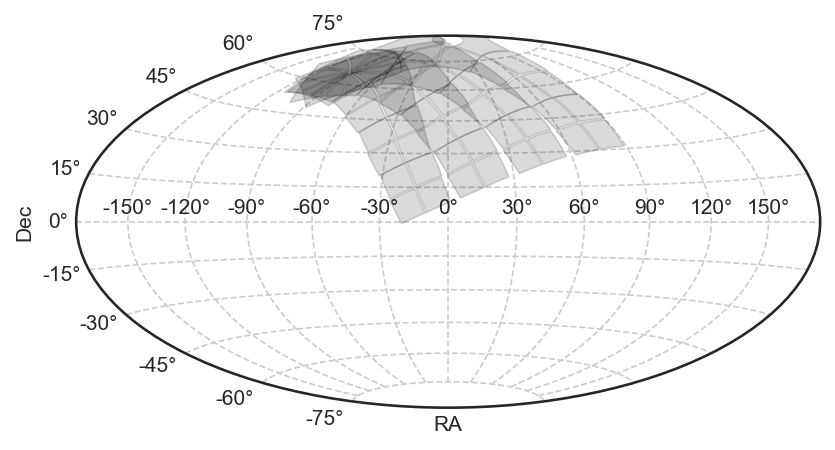
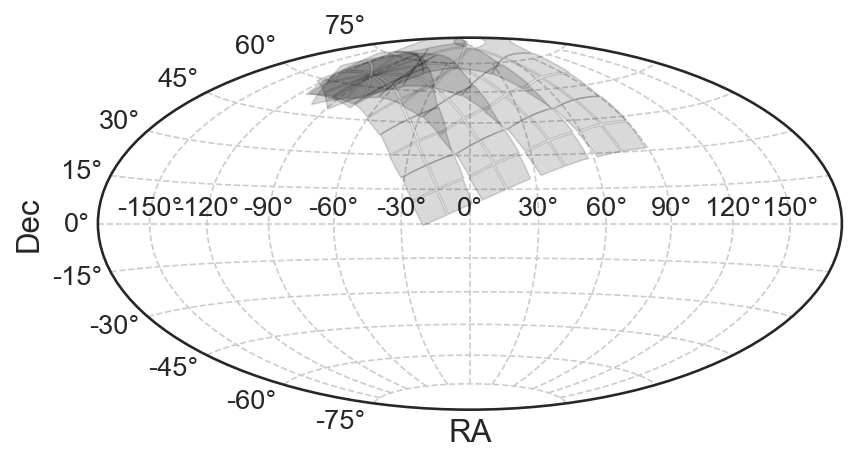
added completeness

diff --git a/tests/test_tessfov.py b/tests/test_tessfov.py
@@ -3,6 +3,20 @@ import os
 import matplotlib.pyplot as plt
 import numpy as np
 
+plt.style.use('seaborn-white')
+
+SMALL_SIZE = 13
+MEDIUM_SIZE = 15
+BIGGER_SIZE = 30
+
+plt.rc('font', size=SMALL_SIZE)          # controls default text sizes
+plt.rc('axes', titlesize=SMALL_SIZE)     # fontsize of the axes title
+plt.rc('axes', labelsize=MEDIUM_SIZE)    # fontsize of the x and y labels
+plt.rc('xtick', labelsize=SMALL_SIZE)    # fontsize of the tick labels
+plt.rc('ytick', labelsize=SMALL_SIZE)    # fontsize of the tick labels
+plt.rc('legend', fontsize=SMALL_SIZE)    # legend fontsize
+plt.rc('figure', titlesize=BIGGER_SIZE)  # fontsize of the figure title
+
 from tessfov import (
     PACKAGEDIR,
     __version__,
@@ -10,6 +24,7 @@ from tessfov import (
     add_tessfov_shade,
     add_tessfov_text,
     get_edges,
+    get_completeness
 )
 
 
@@ -47,14 +62,14 @@ def test_plots():
             )
             ax.set(xlabel="RA", ylabel="Dec")
             ax.grid(True, ls="--")
-            fig.savefig(f"{dir}/docs/projection.png", bbox_inches="tight")
+            fig.savefig(f"{dir}/docs/projection.png", bbox_inches="tight", dpi=150)
             plt.close(fig)
 
             fig = plt.figure(dpi=150)
             ax = plt.subplot(111)
             ax.set(xlabel="RA", ylabel="Dec", xlim=(0, 360), ylim=(-90, 90))
             add_tessfov_outline(ax, sector=np.arange(1, 14, 3))
-            fig.savefig(f"{dir}/docs/regular.png", bbox_inches="tight")
+            fig.savefig(f"{dir}/docs/regular.png", bbox_inches="tight", dpi=150)
             plt.close(fig)
 
             fig = plt.figure(dpi=150)
@@ -62,5 +77,40 @@ def test_plots():
             ax.set(xlabel="RA", ylabel="Dec", xlim=(330, 360), ylim=(-40, 0))
             add_tessfov_outline(ax, sector=2, camera=1, ccd=4, color="grey", ls="--")
             add_tessfov_text(ax, sector=2, camera=1, ccd=4, color="grey", fontsize=12)
-            fig.savefig(f"{dir}/docs/zoom.png", bbox_inches="tight")
+            fig.savefig(f"{dir}/docs/zoom.png", bbox_inches="tight", dpi=150)
             plt.close(fig)
+
+def test_completeness():
+    ra, dec, onsilicon = get_completeness([1, 2])
+    assert np.sum(onsilicon, axis=0).max() == 2
+    ra, dec, onsilicon = get_completeness([1, 2], npoints=10)
+    if not is_action():
+        dir = "/".join(PACKAGEDIR.split("/")[:-2])
+        sectors = np.arange(1, 84)
+        ras, decs, onsilicon = get_completeness(sectors, 100000)
+        #plt.scatter(ras, decs, c=onsilicon.any(axis=0))
+        cmap = plt.get_cmap('viridis')
+        cmap.set_bad(color='grey')
+
+        color = onsilicon.sum(axis=0).astype(float)
+        color[color == 0] = np.nan
+        fig, ax = plt.subplots(figsize=(10, 6))
+        im = plt.scatter(ras, decs, c=color, cmap=cmap, s=1)
+        ax.set(xlabel='RA [degrees]', ylabel='Dec [degrees]', title=f'Number of TESS Visits as of Sector {sectors[-1]}')
+        cbar = plt.colorbar(im, ax=ax)
+        cbar.set_label("Number of Visits by TESS")
+        fig.savefig(f"{dir}/docs/completeness1.png", bbox_inches="tight", dpi=150)
+        plt.close(fig)
+
+        fig, ax = plt.subplots()
+        plt.hist(onsilicon.sum(axis=0), np.arange(0, onsilicon.sum(axis=0).max()), density=True, color='k')
+        ax.set(xlabel="Number of TESS Observations", ylabel="Density", title="Number of TESS Observations across Sky")       
+        fig.savefig(f"{dir}/docs/completeness2.png", bbox_inches="tight", dpi=150)
+        plt.close(fig)
+
+        completeness = np.asarray([onsilicon[:idx].any(axis=0).sum()/onsilicon.shape[1] for idx in sectors])
+        fig, ax = plt.subplots()
+        ax.plot(sectors, completeness * 100, c='k', lw=2)
+        ax.set(xlabel='TESS Observing Sector', ylabel='Toatl Sky Coverage [%]', title='TESS Total Sky Observed at Least Once', ylim=(0, 100))
+        fig.savefig(f"{dir}/docs/completeness3.png", bbox_inches="tight", dpi=150)
+        plt.close(fig)

diff --git a/src/tessfov/tessfov.py b/src/tessfov/tessfov.py
@@ -4,7 +4,7 @@ import astropy.units as u
 import matplotlib.pyplot as plt
 import numpy as np
 import pandas as pd
-from astropy.coordinates import Angle
+from astropy.coordinates import Angle, cartesian_to_spherical
 from numpy import typing as npt
 from tess_stars2px import Levine_FPG
 
@@ -308,3 +308,82 @@ def add_tessfov_shade(
             np.vstack([patch[0], patch[1]]).T, color=color, alpha=0.15, lw=lw, **kwargs
         )
         ax.add_patch(poly)
+
+
+def fibonacci_sphere(samples: int =20000) -> List[npt.NDArray[float]]:
+    """Roughly evenly spaces points on a sphere
+    
+    Parameters:
+    ----------
+    samples: int
+        Number of points to put on a sphere
+
+    Returns:
+    -------
+    vec: np.ndarray shape 3 x len(samples)
+        The cartesian vector of points on a sphere
+    """
+    points = []
+    phi = np.pi * (3. - np.sqrt(5.))  # golden angle in radians
+    for i in range(samples):
+        y = 1 - (i / float(samples - 1)) * 2  # y goes from 1 to -1
+        radius = np.sqrt(1 - y * y)  # radius at y
+        theta = phi * i  # golden angle increment
+        x = np.cos(theta) * radius
+        z = np.sin(theta) * radius
+        points.append((x, y, z))
+    return np.asarray(points)
+
+def get_completeness(sectors: Union[List[int], npt.NDArray]=[1], npoints: int=100000)-> List[npt.NDArray[float]]:
+    """Returns sky completeness of input sectors for NASA TESS.
+    
+    Will evenly distribute points in RA and Dec and then calculate which points are observed
+    in a given list of sectors. Returns an array of booleans for each input sector with
+    True/False stating whether each point is observed. 
+
+    Parameters:
+    ----------
+    sectors: list or np.ndarray
+        The sectors at which to calculate the completeness
+    npoints: int
+        Number of points to put on a sphere
+
+    Returns:
+    -------
+    ra: np.ndarray
+        The evenly spaced RA locations, shape 1 x npoints
+    dec: np.ndarray
+        The evenly spaced Dec locations, shape 1 x npoints
+    onsilicon: np.ndarray
+        Array of booleans, with shape nsectors x npoints.
+        True where any point is observed in a given sector.
+    """
+    # evenly spaced RA and Dec
+    a = fibonacci_sphere(samples=npoints)
+    lat, lng = cartesian_to_spherical(*a.T)[1:]
+    ras, decs = lng.to(u.deg).value, lat.to(u.deg).value
+
+    onsilicon = np.zeros((len(sectors), len(ras)), bool)
+    for ldx, sdx in enumerate(sectors):
+        l = Levine_FPG(np.array([TPARAMS.ra[sdx], TPARAMS.dec[sdx], TPARAMS.roll[sdx]]))
+        vecs = np.asarray(l.sphereToCart(ras, decs))
+        camVecs = np.matmul(l.rmat4, vecs)
+        # carttosphere
+        norm = np.sum(camVecs**2, axis=1)**0.5
+        lat = np.arcsin(camVecs[:, 2] / norm)
+        lng = np.arctan2(camVecs[:, 1], camVecs[:, 0])
+        lng = np.mod(lng, 2.0 * np.pi)
+        lng, lat = np.rad2deg(lng), np.rad2deg(lat)
+
+
+        def infov(lng, lat):
+            vec = np.asarray(l.sphereToCart(lng, lat))
+            vec /= np.sum(vec**2, axis=0)**0.5
+            xlen = np.abs(np.arctan(vec[0] / vec[2]))
+            ylen = np.abs(np.arctan(vec[1] / vec[2]))
+            infov = (xlen <= np.deg2rad(12.5)) & (ylen <= np.deg2rad(12.5))
+            infov *= lat > 70
+            return infov
+
+        onsilicon[ldx] = infov(lng, lat).any(axis=0)
+    return ras, decs, onsilicon

diff --git a/docs/README.md b/docs/README.md
@@ -86,3 +86,16 @@ You can install `tessFOV` using pip:
 ```
 pip install tessfov --upgrade
 ```
+
+## Looking at TESS Completeness
+
+You can use this tool to understand maps of completeness across the sky observed by TESS. To make a dataset of the completeness you can use the `get_completeness` function:
+
+```
+sectors = np.arange(1, 58)
+ra, dec, completeness_by_sector = get_completeness(sectors)
+```
+
+`completeness_by_sector` is then a boolean array with shape *Number of Sectors* x *Number of samples*. The array is True where a point in the sky would fall on the detector in a given sector. Using this dataset you can create maps of the sky that look like this:
+
+![TESS Sky Completeness](completeness1.png)
